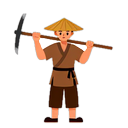
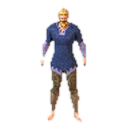
fix: derive the villager portrait from its idle sheet
The portrait drawn by the dock slot, the selection strip and the entity panel
was still the AI-painted farmer with a conical hat and a hoe, from the art pass
the villager's sprites were replaced out of. Players saw one character in the
list and another one on the ground.

build_unit_portrait.py crops the front (S) idle pose out of the directional
sheet the renderer plays, trims it and fits it to the square the UI draws, so
the portrait follows the art instead of being maintained beside it. The
?v= query on the three portrait URLs moves to 4 so browsers refetch.

Changed region(s): [[0.0938, 0.0625, 0.875, 0.9688]]

diff --git a/apps/client/src/components/EntityDetails.tsx b/apps/client/src/components/EntityDetails.tsx
@@ -177,7 +177,7 @@ export const EntityDetails: React.FC<EntityDetailsProps> = ({
         <div className="flex items-center gap-2.5">
           {entity.type === 'unit' && entity.subType ? (
             <img
-              src={`/assets/units/${entity.subType.toLowerCase()}_idle.png?v=3`}
+              src={`/assets/units/${entity.subType.toLowerCase()}_idle.png?v=4`}
               alt={entity.name}
               className="w-10 h-10 object-contain rounded-md bg-slate-900/90 border border-amber-500/60 p-0.5 shadow-md"
               onError={(e) => {
@@ -543,7 +543,7 @@ export const EntityDetails: React.FC<EntityDetailsProps> = ({
                     }`}
                   >
                     <img
-                      src={`/assets/units/${uType.toLowerCase()}_idle.png?v=3`}
+                      src={`/assets/units/${uType.toLowerCase()}_idle.png?v=4`}
                       alt={unitName(uType)}
                       className="w-7 h-7 object-contain rounded bg-slate-900/60 p-0.5 border border-amber-600/40"
                       onError={(e) => {

diff --git a/apps/client/src/components/dock/commandPages.ts b/apps/client/src/components/dock/commandPages.ts
@@ -110,9 +110,9 @@ export interface DockPageInput {
 
 const RESOURCE_ORDER: Array<keyof Resources> = ['wood', 'food', 'gold', 'stone'];
 
-/** Unit art the scene preloads for a type, e.g. `/assets/units/villager_idle.png?v=3`. */
+/** Unit art the scene preloads for a type, e.g. `/assets/units/villager_idle.png?v=4`. */
 export function unitThumbnail(type: string): string {
-  return `/assets/units/${type.toLowerCase()}_idle.png?v=3`;
+  return `/assets/units/${type.toLowerCase()}_idle.png?v=4`;
 }
 
 function canAfford(resources: Resources, cost: Resources): boolean {

diff --git a/scripts/build_unit_portrait.py b/scripts/build_unit_portrait.py
@@ -1,0 +1,112 @@
+"""Derive a unit's portrait from the directional art it actually renders with.
+
+The dock slot, the selection strip and the entity panel all draw
+``apps/client/public/assets/units/<unit>_idle.png`` (see ``unitThumbnail`` in
+``commandPages.ts``). Those files were painted by an earlier art pass and were
+never refreshed when the units themselves were redrawn, so a portrait could show
+a character the player never sees on the ground: the villager's was a
+conical-hat farmer with a hoe while the unit is the pack's blue-tunic peasant.
+
+This script closes that gap by construction: it takes the front (S) facing idle
+pose out of ``assets/units/actions/<unit>_idle.png`` - the same sheet the
+renderer plays - trims the empty canvas around it, and fits it into the square
+portrait the UI expects.
+
+Usage:
+    python scripts/build_unit_portrait.py villager
+    python scripts/build_unit_portrait.py villager spearman --size 128
+"""
+
+from __future__ import annotations
+
+import argparse
+
+from PIL import Image, ImageFilter
+from pathlib import Path
+
+ROOT = Path(__file__).resolve().parent.parent
+ASSET_DIR = ROOT / "apps" / "client" / "public" / "assets" / "units"
+ACTION_DIR = ASSET_DIR / "actions"
+
+# Cell geometry of each directional sheet. Mirrors `UNIT_ART` in
+# apps/client/src/game/render/unitArt.ts: a cell size the renderer disagrees with
+# silently slices poses out of the neighbouring direction, so keep them in step.
+CELLS = {
+    "villager": (148, 130),
+    "spearman": (192, 168),
+    "archer": (192, 168),
+    "cavalry": (224, 224),
+}
+
+# Row 2 is south (towards the viewer) in the east-first, clockwise sheet order -
+# `DEFAULT_DIRECTION_INDEX` in unitDirections.ts, the facing a unit is drawn with
+# before it moves anywhere.
+FRONT_ROW = 2
+FRONT_FRAME = 0
+
+# How much of the portrait the figure fills, and how far its feet sit above the
+# bottom edge. The portrait is shown at 28-40 px, so the margins exist to keep a
+# raised arm or a spear tip inside the frame rather than to frame the pose.
+FIGURE_FILL = 0.92
+BOTTOM_MARGIN_PX = 4
+
+
+def front_pose(unit: str) -> Image.Image:
+    """The front-facing idle pose of `unit`, trimmed to its own silhouette."""
+    cell_width, cell_height = CELLS[unit]
+    sheet_path = ACTION_DIR / f"{unit}_idle.png"
+    with Image.open(sheet_path) as sheet:
+        frame = sheet.convert("RGBA").crop(
+            (
+                FRONT_FRAME * cell_width,
+                FRONT_ROW * cell_height,
+                (FRONT_FRAME + 1) * cell_width,
+                (FRONT_ROW + 1) * cell_height,
+            )
+        )
+    box = frame.split()[-1].getbbox()
+    if box is None:
+        raise SystemExit(f"{sheet_path} has an empty front idle cell; nothing to crop")
+    return frame.crop(box)
+
+
+def build_portrait(unit: str, size: int) -> Path:
+    """Write the square portrait for `unit` and return its path."""
+    pose = front_pose(unit)
+    # One box for both axes: a mounted unit is wider than it is tall, and the
+    # figure must fit whichever limit it hits first instead of being cut off.
+    limit = round(size * FIGURE_FILL)
+    scale = min(limit / pose.width, limit / pose.height)
+    scaled = pose.resize(
+        (max(1, round(pose.width * scale)), max(1, round(pose.height * scale))),
+        Image.Resampling.LANCZOS,
+    )
+    # The idle frames are ~90 px tall; filling a 128 px portrait is a mild
+    # upscale, so a light sharpen keeps the sprite from looking washed out at
+    # the 40 px the entity panel draws it at.
+    scaled = scaled.filter(ImageFilter.UnsharpMask(radius=1.0, percent=45, threshold=2))
+
+    portrait = Image.new("RGBA", (size, size), (0, 0, 0, 0))
+    portrait.alpha_composite(
+        scaled,
+        ((size - scaled.width) // 2, size - BOTTOM_MARGIN_PX - scaled.height),
+    )
+
+    out_path = ASSET_DIR / f"{unit}_idle.png"
+    portrait.save(out_path, "PNG", optimize=True)
+    return out_path
+
+
+def main() -> None:
+    parser = argparse.ArgumentParser(description=__doc__)
+    parser.add_argument("units", nargs="+", choices=sorted(CELLS), help="unit type(s) to rebuild")
+    parser.add_argument("--size", type=int, default=128, help="square portrait size in px")
+    args = parser.parse_args()
+
+    for unit in args.units:
+        path = build_portrait(unit, args.size)
+        print(f"{unit}: {path.relative_to(ROOT)} ({args.size}x{args.size})")
+
+
+if __name__ == "__main__":
+    main()

diff --git a/CREDITS.md b/CREDITS.md
@@ -25,6 +25,12 @@ of the per-direction offsets that were applied. `scripts/build_oga_soldier_varia
 holds the soldier outfit candidates, builds them for comparison, and rebuilds the
 chosen one into the client assets.
 
+The portrait a unit is listed with (`assets/units/<unit>_idle.png`, drawn by the
+dock slot, the selection strip and the entity panel) is not painted separately:
+`scripts/build_unit_portrait.py` crops the front idle pose out of that unit's
+action sheet and fits it to the square the UI expects, so a portrait cannot drift
+away from the unit it labels.
+
 Current layers, bottom to top:
 
 - villager: `BaseHumanMale` (body), `BrownPants`, `TunicBlue` (muted indigo,
